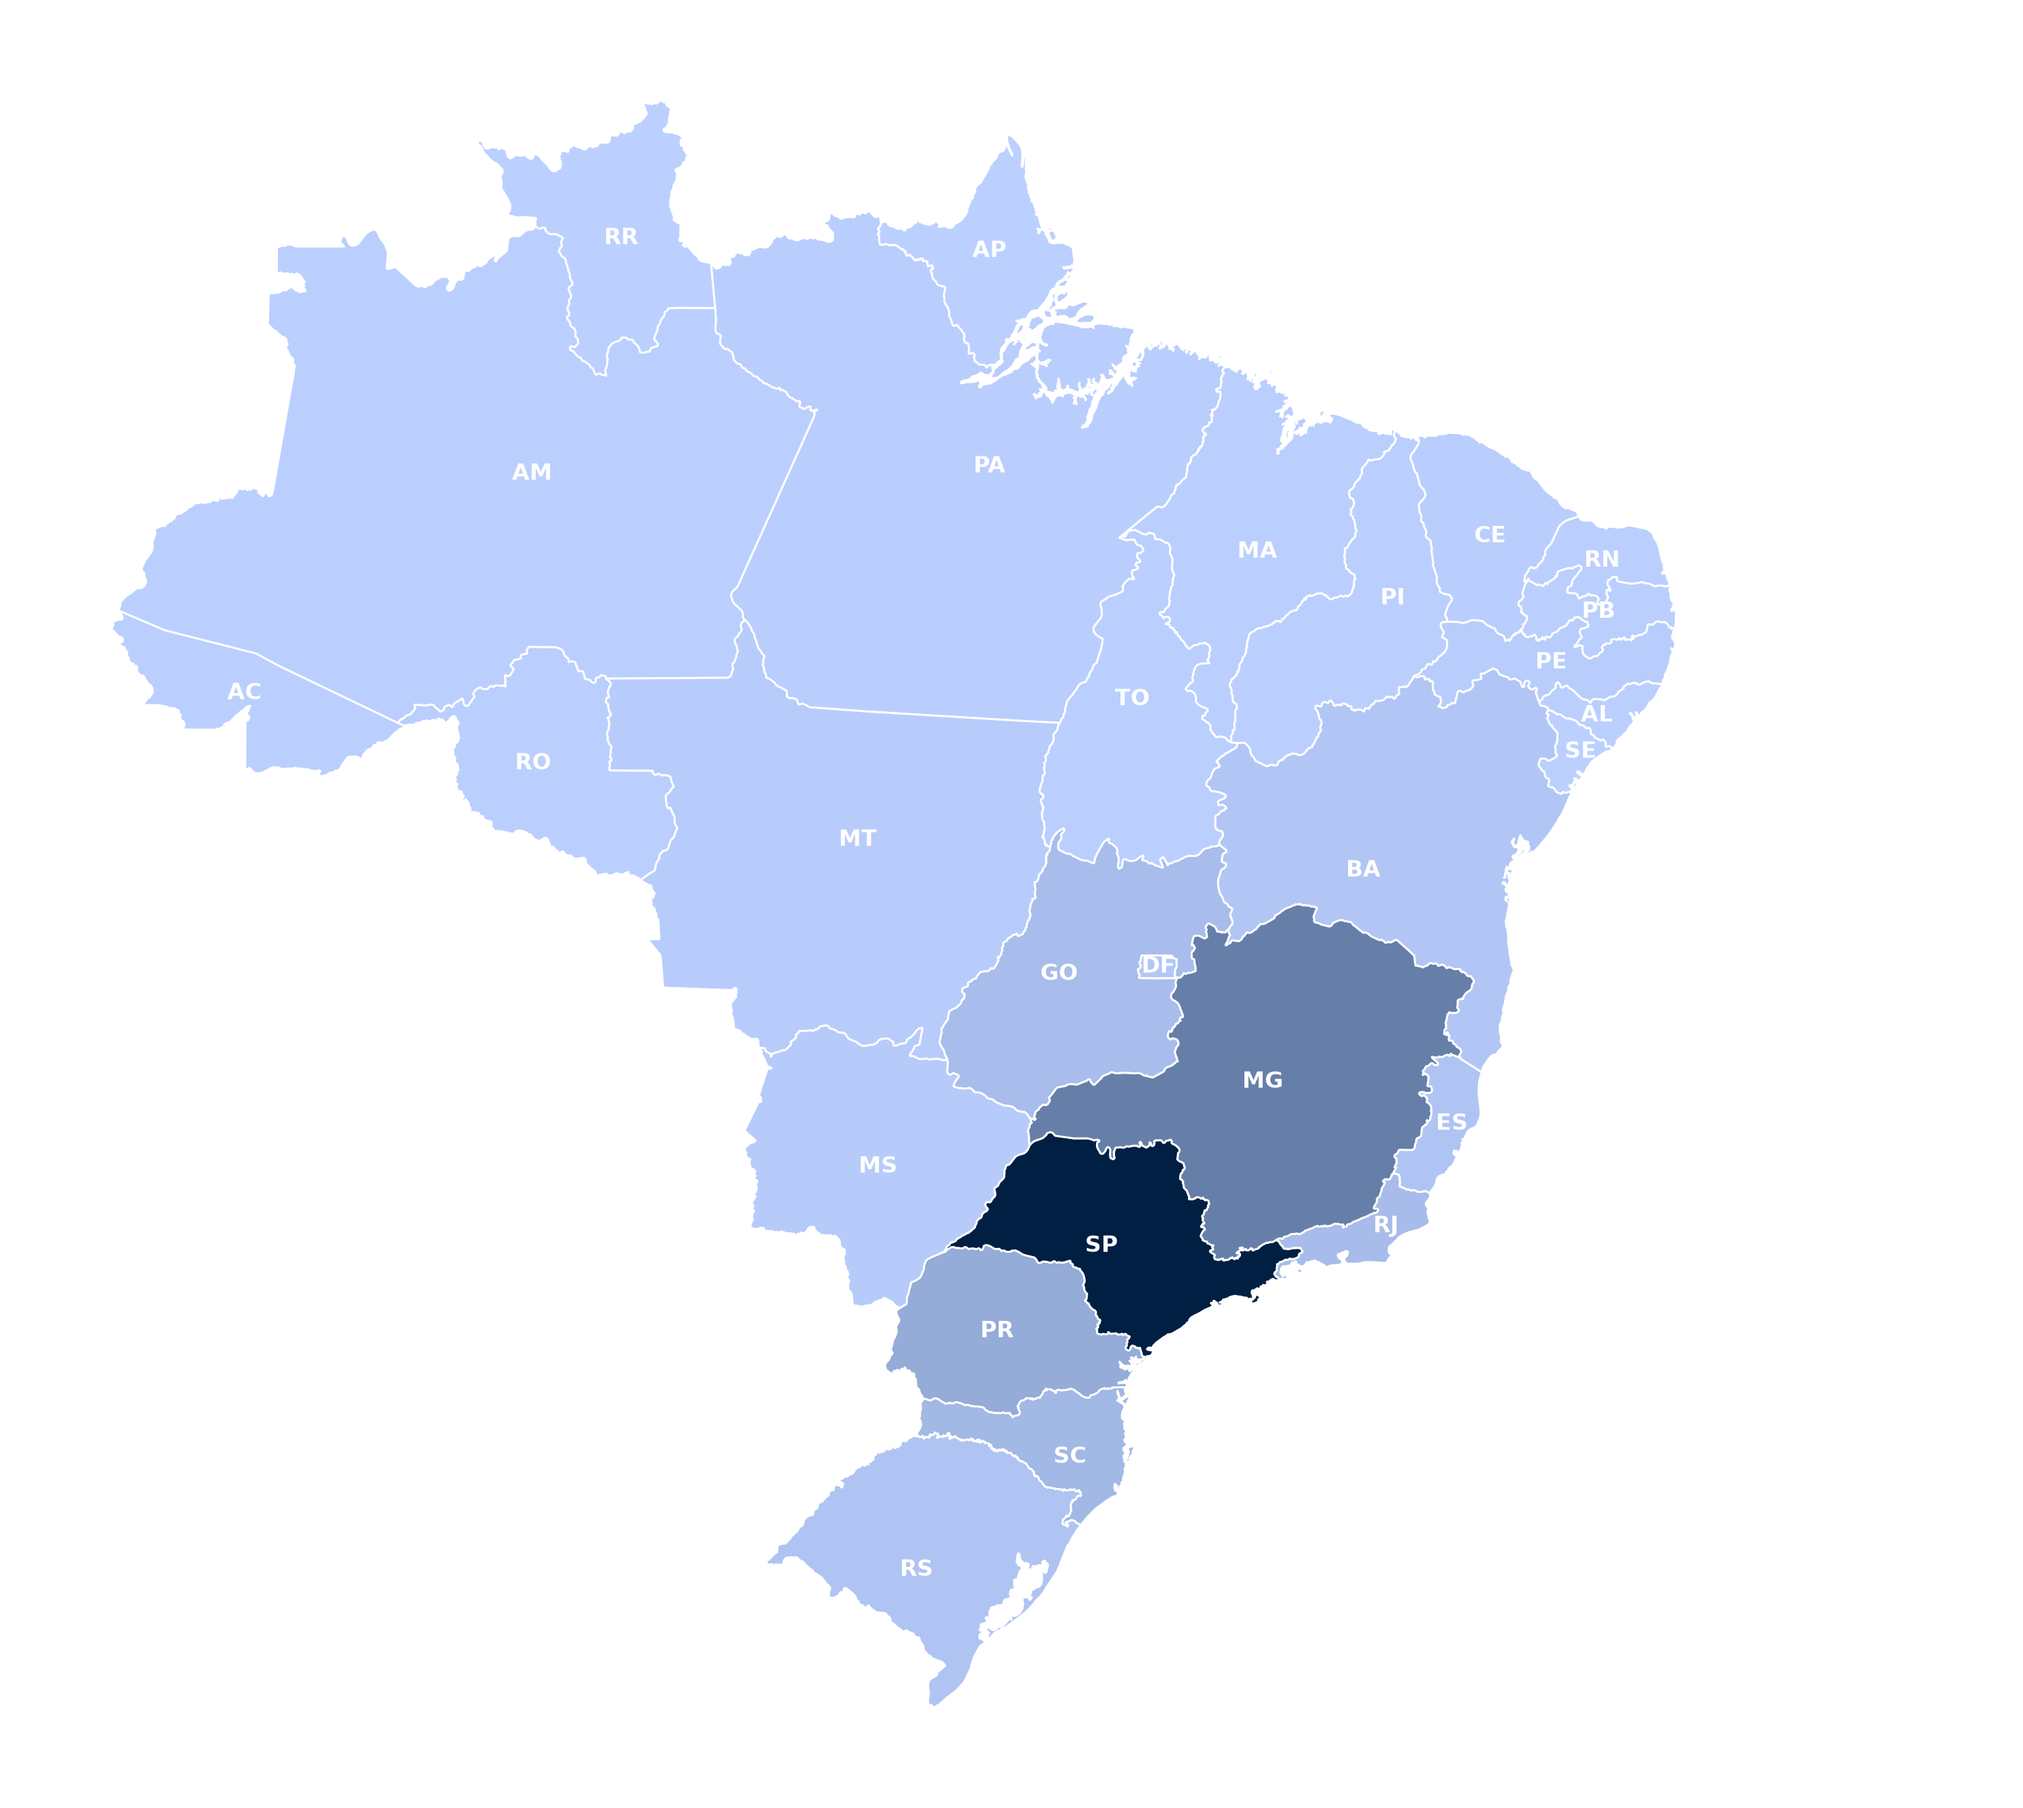
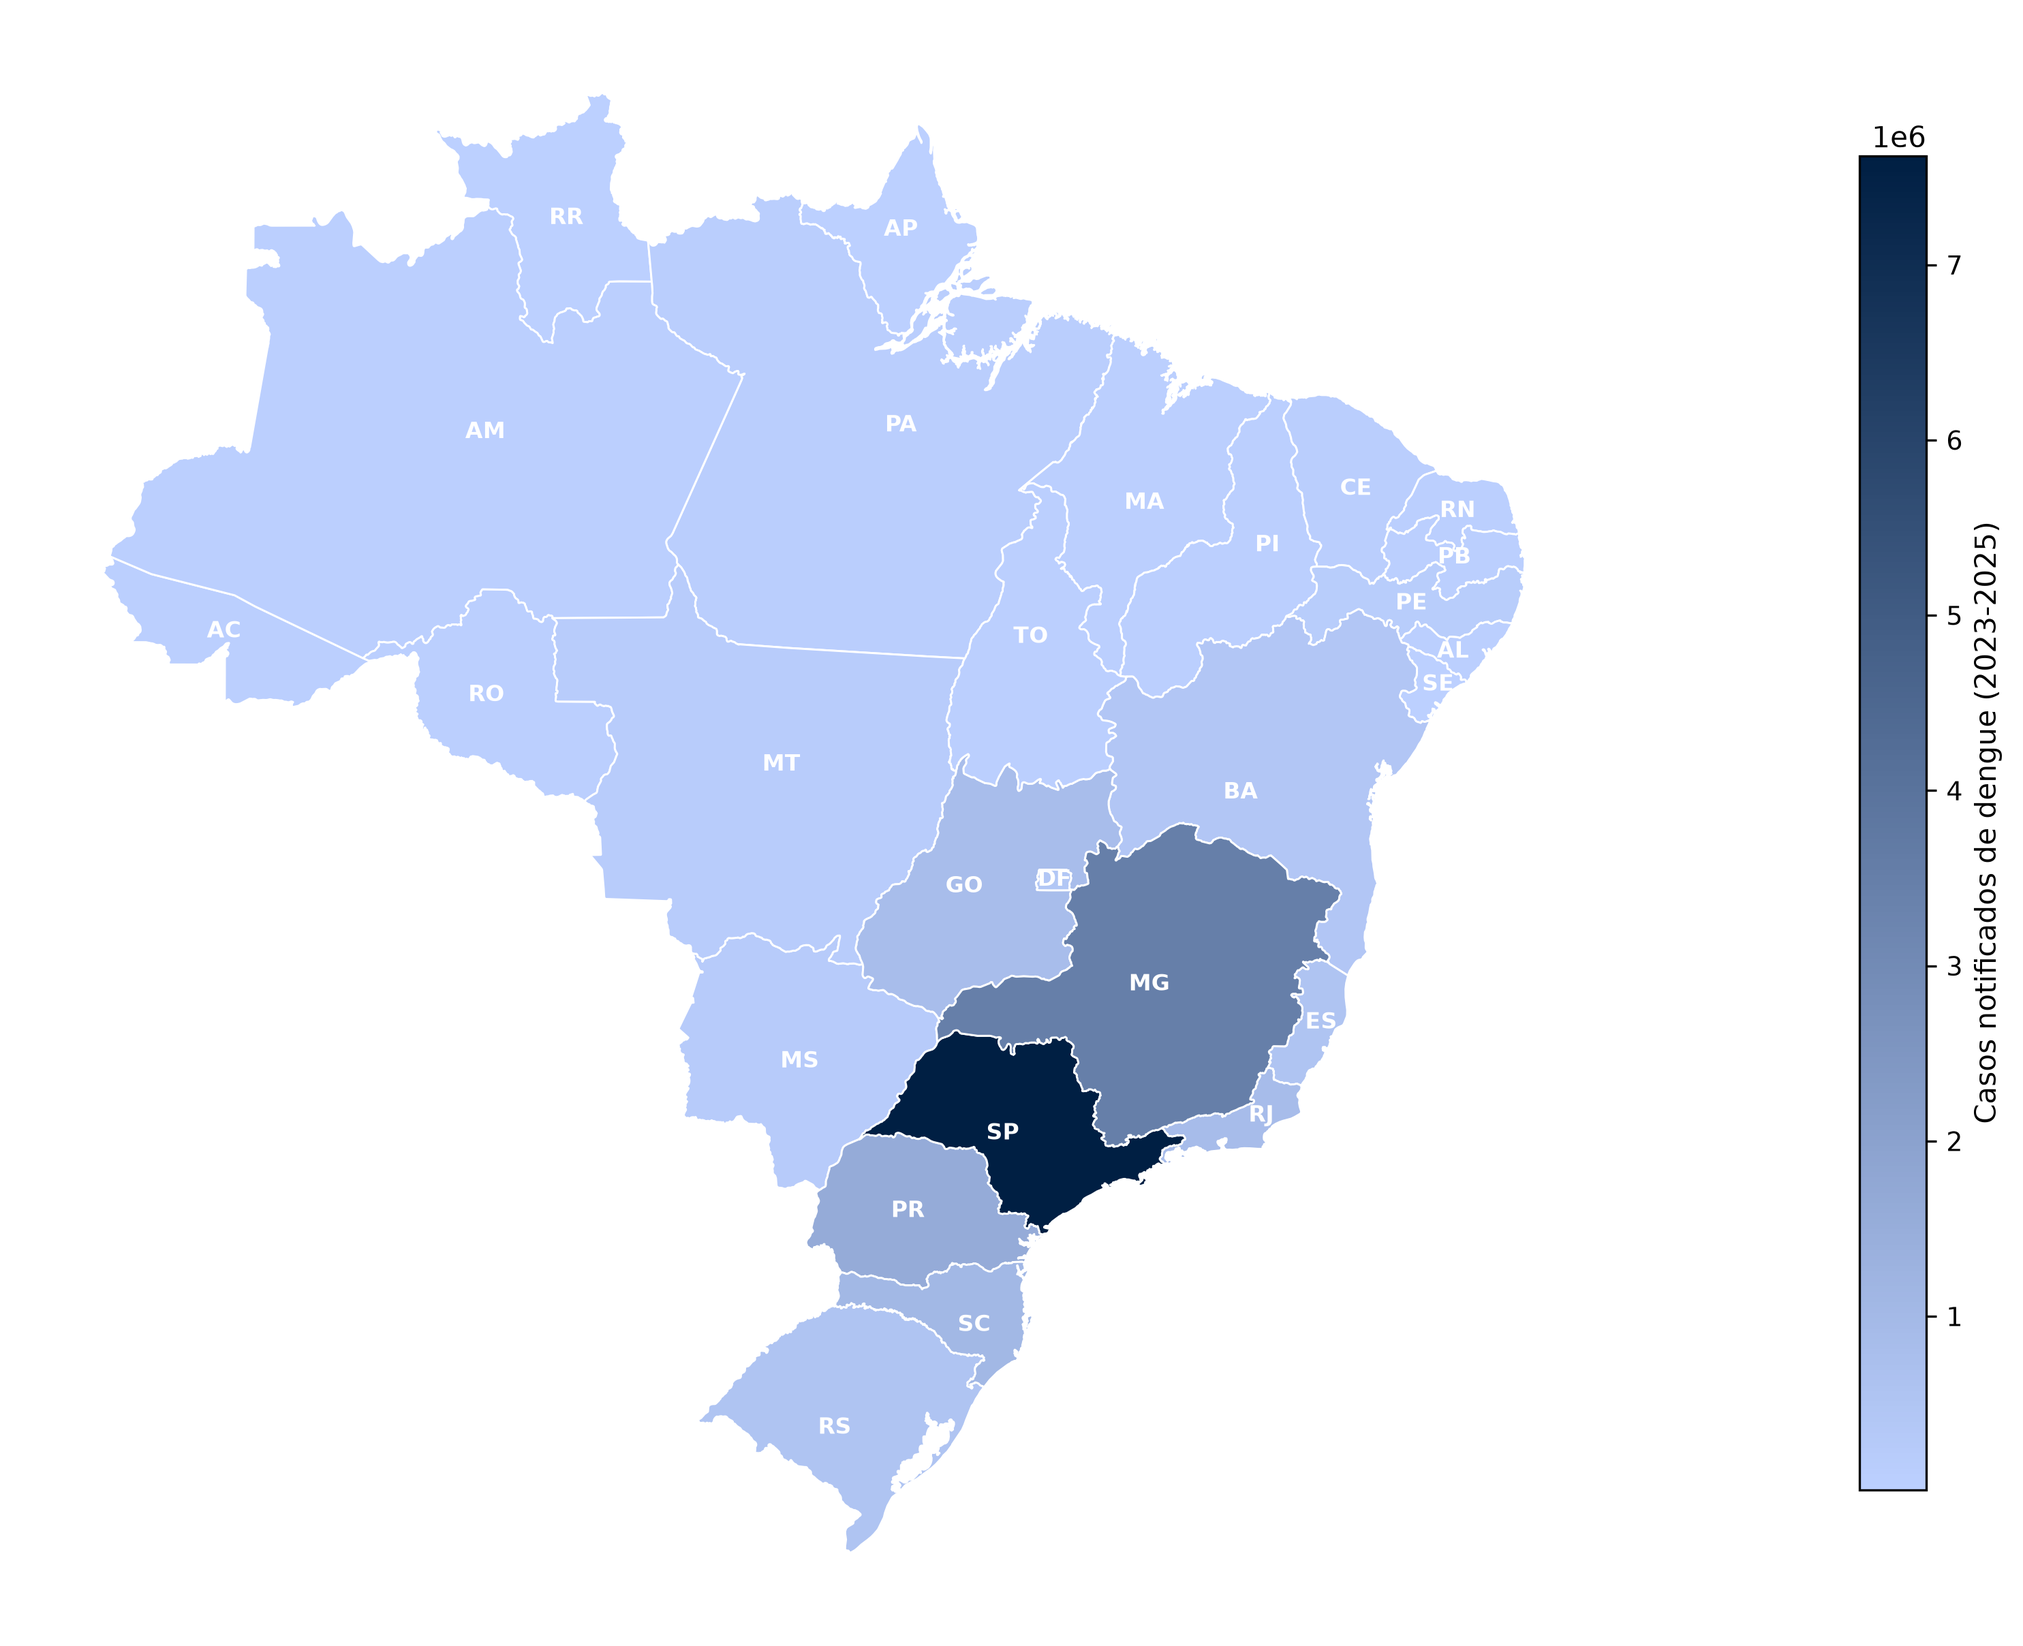
adiciona legenda no mapa de ranking de casos de dengue 2023-2025

diff --git a/scripts_infodengue/mapa_ranking_casos_dengue.py b/scripts_infodengue/mapa_ranking_casos_dengue.py
@@ -157,6 +157,36 @@ for _, row in gdf.iterrows():
         color="white"
     )
 
+vmin = ranking["casos_notificados"].min()
+vmax = ranking["casos_notificados"].max()
+
+norm = plt.Normalize(
+    vmin=vmin,
+    vmax=vmax
+)
+
+sm = plt.cm.ScalarMappable(
+    cmap=cmap,
+    norm=norm
+)
+
+sm.set_array([])
+
+cbar = fig.colorbar(
+    sm,
+    ax=ax,
+    fraction=0.035,
+    pad=0.02
+)
+
+cbar.set_label(
+    "Casos notificados de dengue (2023-2025)",
+    fontsize=10
+)
+
+cbar.ax.tick_params(
+    labelsize=9
+)
 
 ax.set_axis_off()
 
